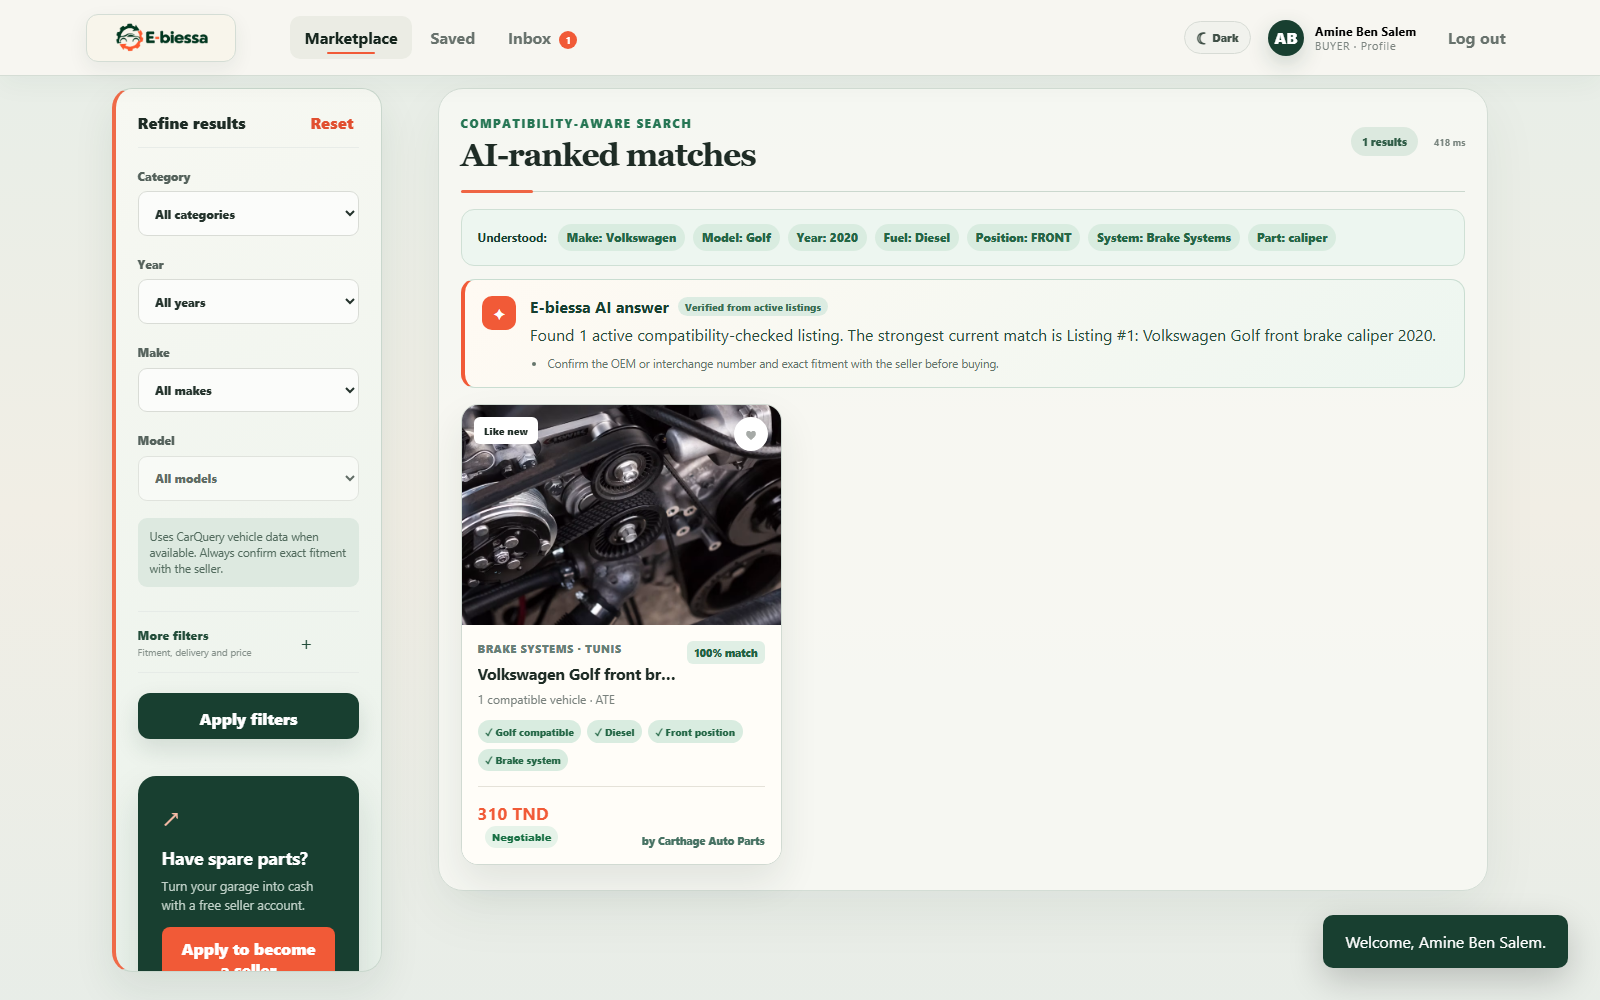
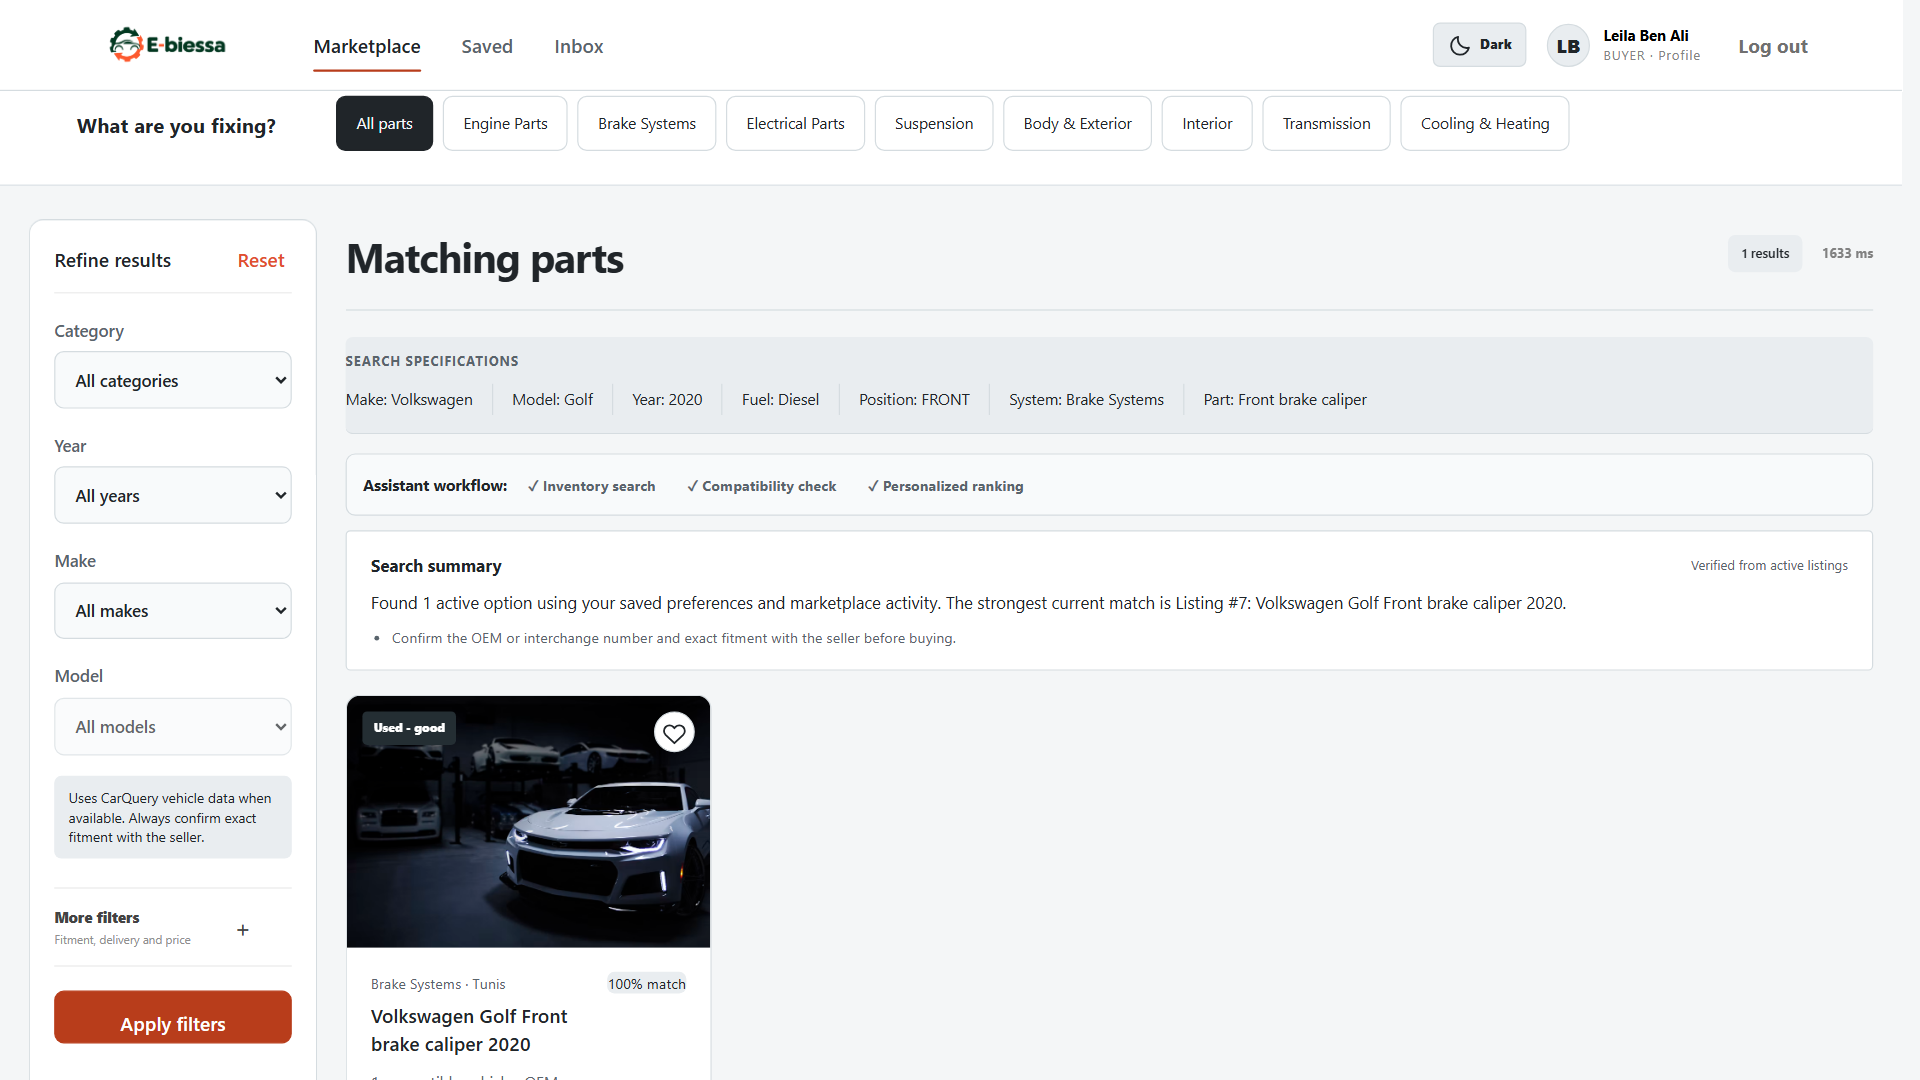
Update README with listing redesign, photo identification and new screenshots

diff --git a/README.md b/README.md
@@ -34,8 +34,10 @@
 - **Find compatible parts:** keyword and natural-language search, vehicle filters, OEM references, sorting, and pagination.
 - **Discover relevant listings:** explainable recommendations based on vehicle preferences, saved listings, and optional activity history.
 - **Talk to sellers:** real-time conversations with image attachments, plus protected phone, WhatsApp, and email contact options.
+- **Read a listing at a glance:** a redesigned listing page with a photo gallery, a key-facts strip (position, OEM reference, engine and fuel, warranty, delivery, city), a sticky contact panel with the seller card and safety tips, and similar parts from the same category.
 - **Buy with more context:** public seller profiles, star ratings, reviews, and reporting tools.
-- **Search your way:** optional photo-based part identification, browser voice input, and VIN-assisted vehicle selection.
+- **Identify a part from a photo:** upload a picture in fitment search to get a suggested part type from a 74-label vocabulary (CLIP). Low-confidence results are shown as a "possible match" instead of a firm answer, and a photo never decides vehicle compatibility.
+- **Search your way:** browser voice input and VIN-assisted vehicle selection.
 
 ### For sellers
 
@@ -50,16 +52,22 @@
 - Moderate reported listings and sellers, suspend accounts, and review audit logs.
 - Manage the marketplace through a dedicated dashboard.
 
-Across all roles: editable profiles, light/dark themes, JWT authentication, and optional social sign-in and account recovery integrations.
+Across all roles: editable profiles, light/dark themes, a responsive mobile layout, JWT authentication, and optional social sign-in and account recovery integrations.
 
 ## Screenshots
 
 Selected demonstration captures. Listings, photos, and account names shown are sample data;
 these images are not evidence of actual part fitment or seller response times.
 
-| Compatibility-aware search | Seller workspace |
+| Compatibility-aware search | Photo identification |
 | --- | --- |
-| [![Search with extracted constraints and match explanations](documentation/images/ai-search.png)](documentation/images/ai-search.png) | [![Seller studio inventory and listing actions](documentation/images/seller-studio.png)](documentation/images/seller-studio.png) |
+| [![Search with extracted constraints and match explanations](documentation/images/ai-search.png)](documentation/images/ai-search.png) | [![Brake caliper photo identified as a possible match](documentation/images/photo-identification.png)](documentation/images/photo-identification.png) |
+| **Listing page** | **Real-time messaging** |
+| [![Listing page with gallery, key facts, and seller contact panel](documentation/images/listing-detail.png)](documentation/images/listing-detail.png) | [![Seller inbox receiving a buyer message](documentation/images/messaging.png)](documentation/images/messaging.png) |
+| **Seller workspace** | **Administration** |
+| [![Seller studio inventory and listing actions](documentation/images/seller-studio.png)](documentation/images/seller-studio.png) | [![Administrator dashboard with seller applications and moderation](documentation/images/admin-dashboard.png)](documentation/images/admin-dashboard.png) |
+| **Dark mode** | **Mobile** |
+| [![Marketplace homepage in dark mode](documentation/images/dark-mode.png)](documentation/images/dark-mode.png) | [![Marketplace on a phone-sized screen](documentation/images/mobile.png)](documentation/images/mobile.png) |
 
 ## Architecture
 
@@ -81,13 +89,20 @@ flowchart LR
 | Core API | Spring Boot 3, Java 21, Spring Security, JPA | Authorization, business rules, persistence, WebSocket messaging |
 | Database | MySQL | Accounts, listings, conversations, reviews, and moderation |
 | Search service | FastAPI, FastEmbed, Qdrant, LangChain | Semantic retrieval and read-only tool orchestration |
-| Models | Qwen 2.5 via Ollama, optional CLIP | Query extraction and image-based part-type suggestions |
+| Models | Qwen 2.5 7B (QLoRA) via Ollama, optional CLIP, experimental ResNet18 | Query extraction and image-based part-type suggestions |
 | Quality & operations | Docker, Jenkins, SonarQube, Prometheus, Grafana | Build pipeline, analysis, metrics, and alerting |
 
 ### Search with explicit boundaries
 
 Natural-language queries can be interpreted in English, French, and Tunisian transliteration.
 The local Qwen model was adapted with Unsloth and QLoRA; training and evaluation scripts are included.
+On the 120 held-out examples of the generated dataset, the v2 adapter produced valid JSON for 99.2% of queries
+and fully correct records for 96.7%. This is a small, synthetic test set, not a general accuracy claim;
+without Ollama, a deterministic parser takes over.
+
+Photo identification uses CLIP with a 74-label vocabulary. An experimental ResNet18 classifier
+(50 part classes) is documented in the [vision-training guide](ai-service/training/vision/README.md)
+and remains a comparison pilot until it is evaluated on real E-biessa photos.
 
 Model output does **not** establish compatibility. Deterministic checks validate constraints,
 and Spring rechecks returned listings against MySQL before constructing the displayed answer.
@@ -203,6 +218,9 @@ Run from the indicated service directory:
 | Angular unit tests and build | `npm run verify` |
 | Browser tests | `npx playwright install chromium`, then `npm run test:e2e` |
 
+The suites total about 200 automated tests across JUnit, Pytest, Vitest, and Playwright.
+On the last SonarQube analysis, the quality gate passed with 81.3% coverage on new code.
+
 Live-stack browser tests require running services and configured test accounts;
 ordinary browser tests use controlled API responses. A passing mocked test is not a live-stack validation.
 
@@ -237,6 +255,7 @@ See the [Spring environment template](marketplace-api/.env.example) and [AI envi
 | [Recommendations](documentation/RECOMMENDATIONS.md) | Ranking, eligibility, and privacy |
 | [VIN compatibility](documentation/VIN_COMPATIBILITY.md) | Vehicle decoding and limitations |
 | [Image and voice search](documentation/IMAGE_AND_VOICE_SEARCH.md) | Optional inputs and setup |
+| [Vision training](ai-service/training/vision/README.md) | ResNet18 part-classifier experiment and dataset |
 | [DevOps](documentation/DEVOPS.md) | CI, containers, monitoring, and troubleshooting |
 | [GHCR local demo](documentation/GHCR_DEMO.md) | Isolated image deployment, two API replicas, monitoring, and verification gates |
 
@@ -248,4 +267,4 @@ External providers need their own credentials or availability. Production deploy
 multi-instance high availability are outside the current demonstrated baseline.
 
 Academic reports, presentation drafts, caches, secrets, and model binaries stay outside Git.
-Only a small selection of documentation screenshots is included here.
+Screenshots in `documentation/images` show seeded demonstration data.
